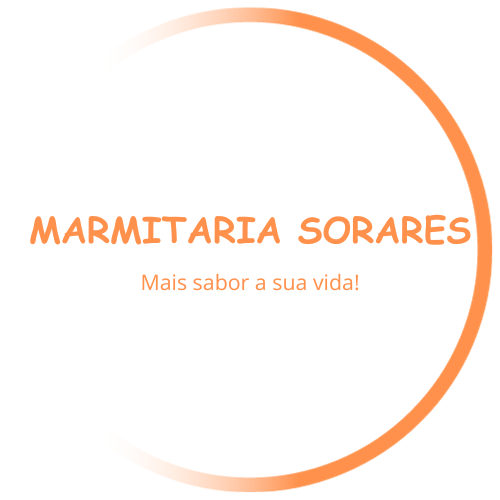
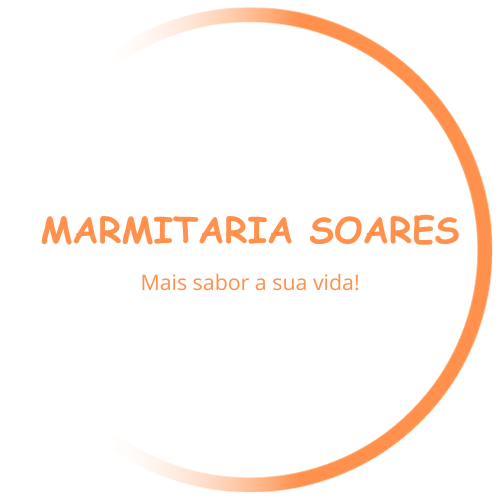
feito a seção de perfil

Changed region(s): [[0.06, 0.42, 0.96, 0.51]]

diff --git a/style.css b/style.css
@@ -5,3 +5,34 @@
     font-family: 'Playpen Sans', cursive;
 }
 
+/* Configuração do body */
+body {
+    height: 100vh;
+    background: url(./assets/bg.jpg) no-repeat center/cover;
+}
+/* Conteudo principal */
+.container {
+    width: 360px;
+    max-width: 560px;
+    height: 100vh;
+    margin: 0 auto;
+    background-color: #ffffff0e;
+    backdrop-filter: blur(4px);
+    -webkit-backdrop-filter: blur(4px);
+}
+/* Card de perfil */
+header {
+    display: flex;
+    justify-content: center;
+    align-items: center;
+    flex-direction: column;
+}
+header img {
+    width: 112px;
+    border-radius: 50%;
+    margin-top: 5px;
+}
+header p {
+    color:#fdfdfd;
+    font-weight: 500;
+}

diff --git a/index.html b/index.html
@@ -6,10 +6,15 @@
     <link href="https://fonts.googleapis.com/css2?family=Playpen+Sans&display=swap" rel="stylesheet">
     <meta charset="UTF-8">
     <meta name="viewport" content="width=device-width, initial-scale=1.0">
-    <title>Marmitaria Sores</title>
+    <title>Marmitaria Soares</title>
     <link rel="stylesheet" href="style.css">
 </head>
 <body>
-    
+    <main class="container">
+        <header>
+            <img src="./assets/profile-img.png" alt="Marmitaria Soares">
+            <p>@_marmitaria.soares</p>
+        </header>
+    </main>
 </body>
 </html>
